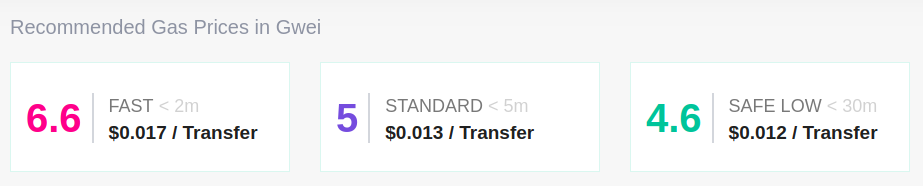
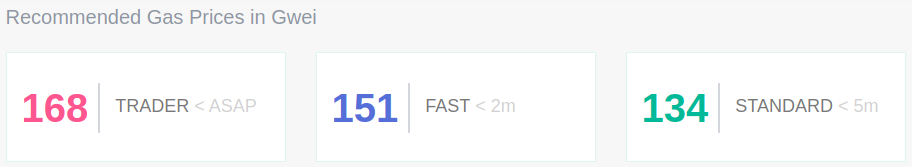
Updated slides on Ethereum transactions

diff --git a/Ethereum/Ethereum.tex b/Ethereum/Ethereum.tex
@@ -685,7 +685,7 @@ Result:    001d3{\color{red}F}1ef827552{\color{red}A}e1114027{\color{red}BD}3{\c
 
   The price of gas fluctuates, for protection against ETH spikes:
 
-  \bigskip
+  \medskip
 
   \begin{greenbox}{\url{https://ethgasstation.info/}}
     \begin{center}
@@ -695,12 +695,40 @@ Result:    001d3{\color{red}F}1ef827552{\color{red}A}e1114027{\color{red}BD}3{\c
 
   \bigskip
 
-  It is well possible that transactions with $0$ gas price will be eventually
-  processed.
+  It is theoretically possible that transactions with $0$ gas price will be eventually
+  processed
 
-  \bigskip
+  \medskip
 
-  The maximal gas cost of a transaction will be $\mathit{Gas\ price}\times\mathit{Gas\ limit}$.
+  Maximal fees: $\mathit{Gas\ price}\times\mathit{Gas\ limit}
+  \times \mathit{Euros\ per\ Gwei}$
+
+  \medskip
+
+  \begin{redbox}{Example: a small transaction requires 21000 units of gas}
+    \begin{center}
+      $\mathit{fees} = 151\times 21000\times 0.00000162$€$=5.137$€
+    \end{center}
+  \end{redbox}
+  
+\end{frame}
+
+\begin{frame}\frametitle{Average fees chart}
+
+  \begin{greenbox}{\url{https://blockchair.com/}}
+    \begin{center}
+      \includegraphics[width=\textwidth,clip=false]{pictures/ethereum-fees-chart.png}
+    \end{center}
+  \end{greenbox}
+
+\end{frame}
+
+\begin{frame}\frametitle{Computing the gas price in Java using Infura}
+
+  \begin{center}
+    \includegraphics[width=\textwidth,clip=false]{pictures/get-gas-price-java.png}
+  \end{center}
+
 \end{frame}
 
 \begin{frame}\frametitle{To}
@@ -723,7 +751,7 @@ Result:    001d3{\color{red}F}1ef827552{\color{red}A}e1114027{\color{red}BD}3{\c
   \bigskip
 
   Clients should check for correctness of addresses, for instance
-  through EIP-55.
+  through EIP-55
 \end{frame}
 
 \begin{frame}\frametitle{Signing and sending a transaction in Java with Infura}
@@ -762,7 +790,7 @@ Result:    001d3{\color{red}F}1ef827552{\color{red}A}e1114027{\color{red}BD}3{\c
       \item there is a \alert{payable \emph{fallback} function}: it will be executed after
         increasing the contract's balance by value
       \item there is no fallback function: the balance of the contract gets increased by value
-      \item there is a fallback function, but is not payable: the transaction fails
+      \item there is a fallback function, but it is not payable: the transaction fails
       \end{itemize}
     \end{itemize}
   \end{itemize}
@@ -773,8 +801,8 @@ Result:    001d3{\color{red}F}1ef827552{\color{red}A}e1114027{\color{red}BD}3{\c
 
   \begin{itemize}
   \item the signing key specifies the caller
-  \item the recipient specifies the receiver contract of the call
-  \item the data component specifies signature and actual arguments of the call
+  \item the recipient is the address of the receiving contract of the call
+  \item the data component encodes signature and actual arguments of the call
   \end{itemize}
 
   \bigskip
@@ -790,7 +818,7 @@ Result:    001d3{\color{red}F}1ef827552{\color{red}A}e1114027{\color{red}BD}3{\c
 
 \end{frame}
 
-\begin{frame}\frametitle{Example: call \<withdraw()> on contract installed with Remix}
+\begin{frame}\frametitle{Calling \<withdraw()> on a contract installed with Remix}
 
   \begin{center}
     \includegraphics[width=\textwidth,clip=false]{pictures/send-function-transaction-java.png}
@@ -804,12 +832,13 @@ Result:    001d3{\color{red}F}1ef827552{\color{red}A}e1114027{\color{red}BD}3{\c
   \item the signing key specifies the caller
   \item the recipient is set to the zero address
   \item the data component contains the compiled bytecode of the contract
+    (ask Remix for that)
   \item the transaction receipt contains the address of the new contract
   \end{itemize}
 
 \end{frame}
 
-\begin{frame}\frametitle{Example: create an instance of \<Faucet.sol> with Infura}
+\begin{frame}\frametitle{Creating an instance of \<Faucet.sol> with Infura}
 
   \begin{center}
     \includegraphics[width=\textwidth,clip=false]{pictures/send-contract-transaction-java.png}
@@ -846,9 +875,9 @@ byte[] signedMessage = TransactionEncoder.signMessage
 
   \begin{greenbox}{}
     The public key of the signer can be recovered from the signed transaction.
-    A numerical chain identifier is added to the transaction before signing,
+    A numerical \alert{chain identifier} is added to the transaction before signing,
     so that transactions cannot be replayed across networks
-    (mainnet, testnets\ldots).
+    (mainnet, testnets\ldots)
   \end{greenbox}
 \end{frame}
 
